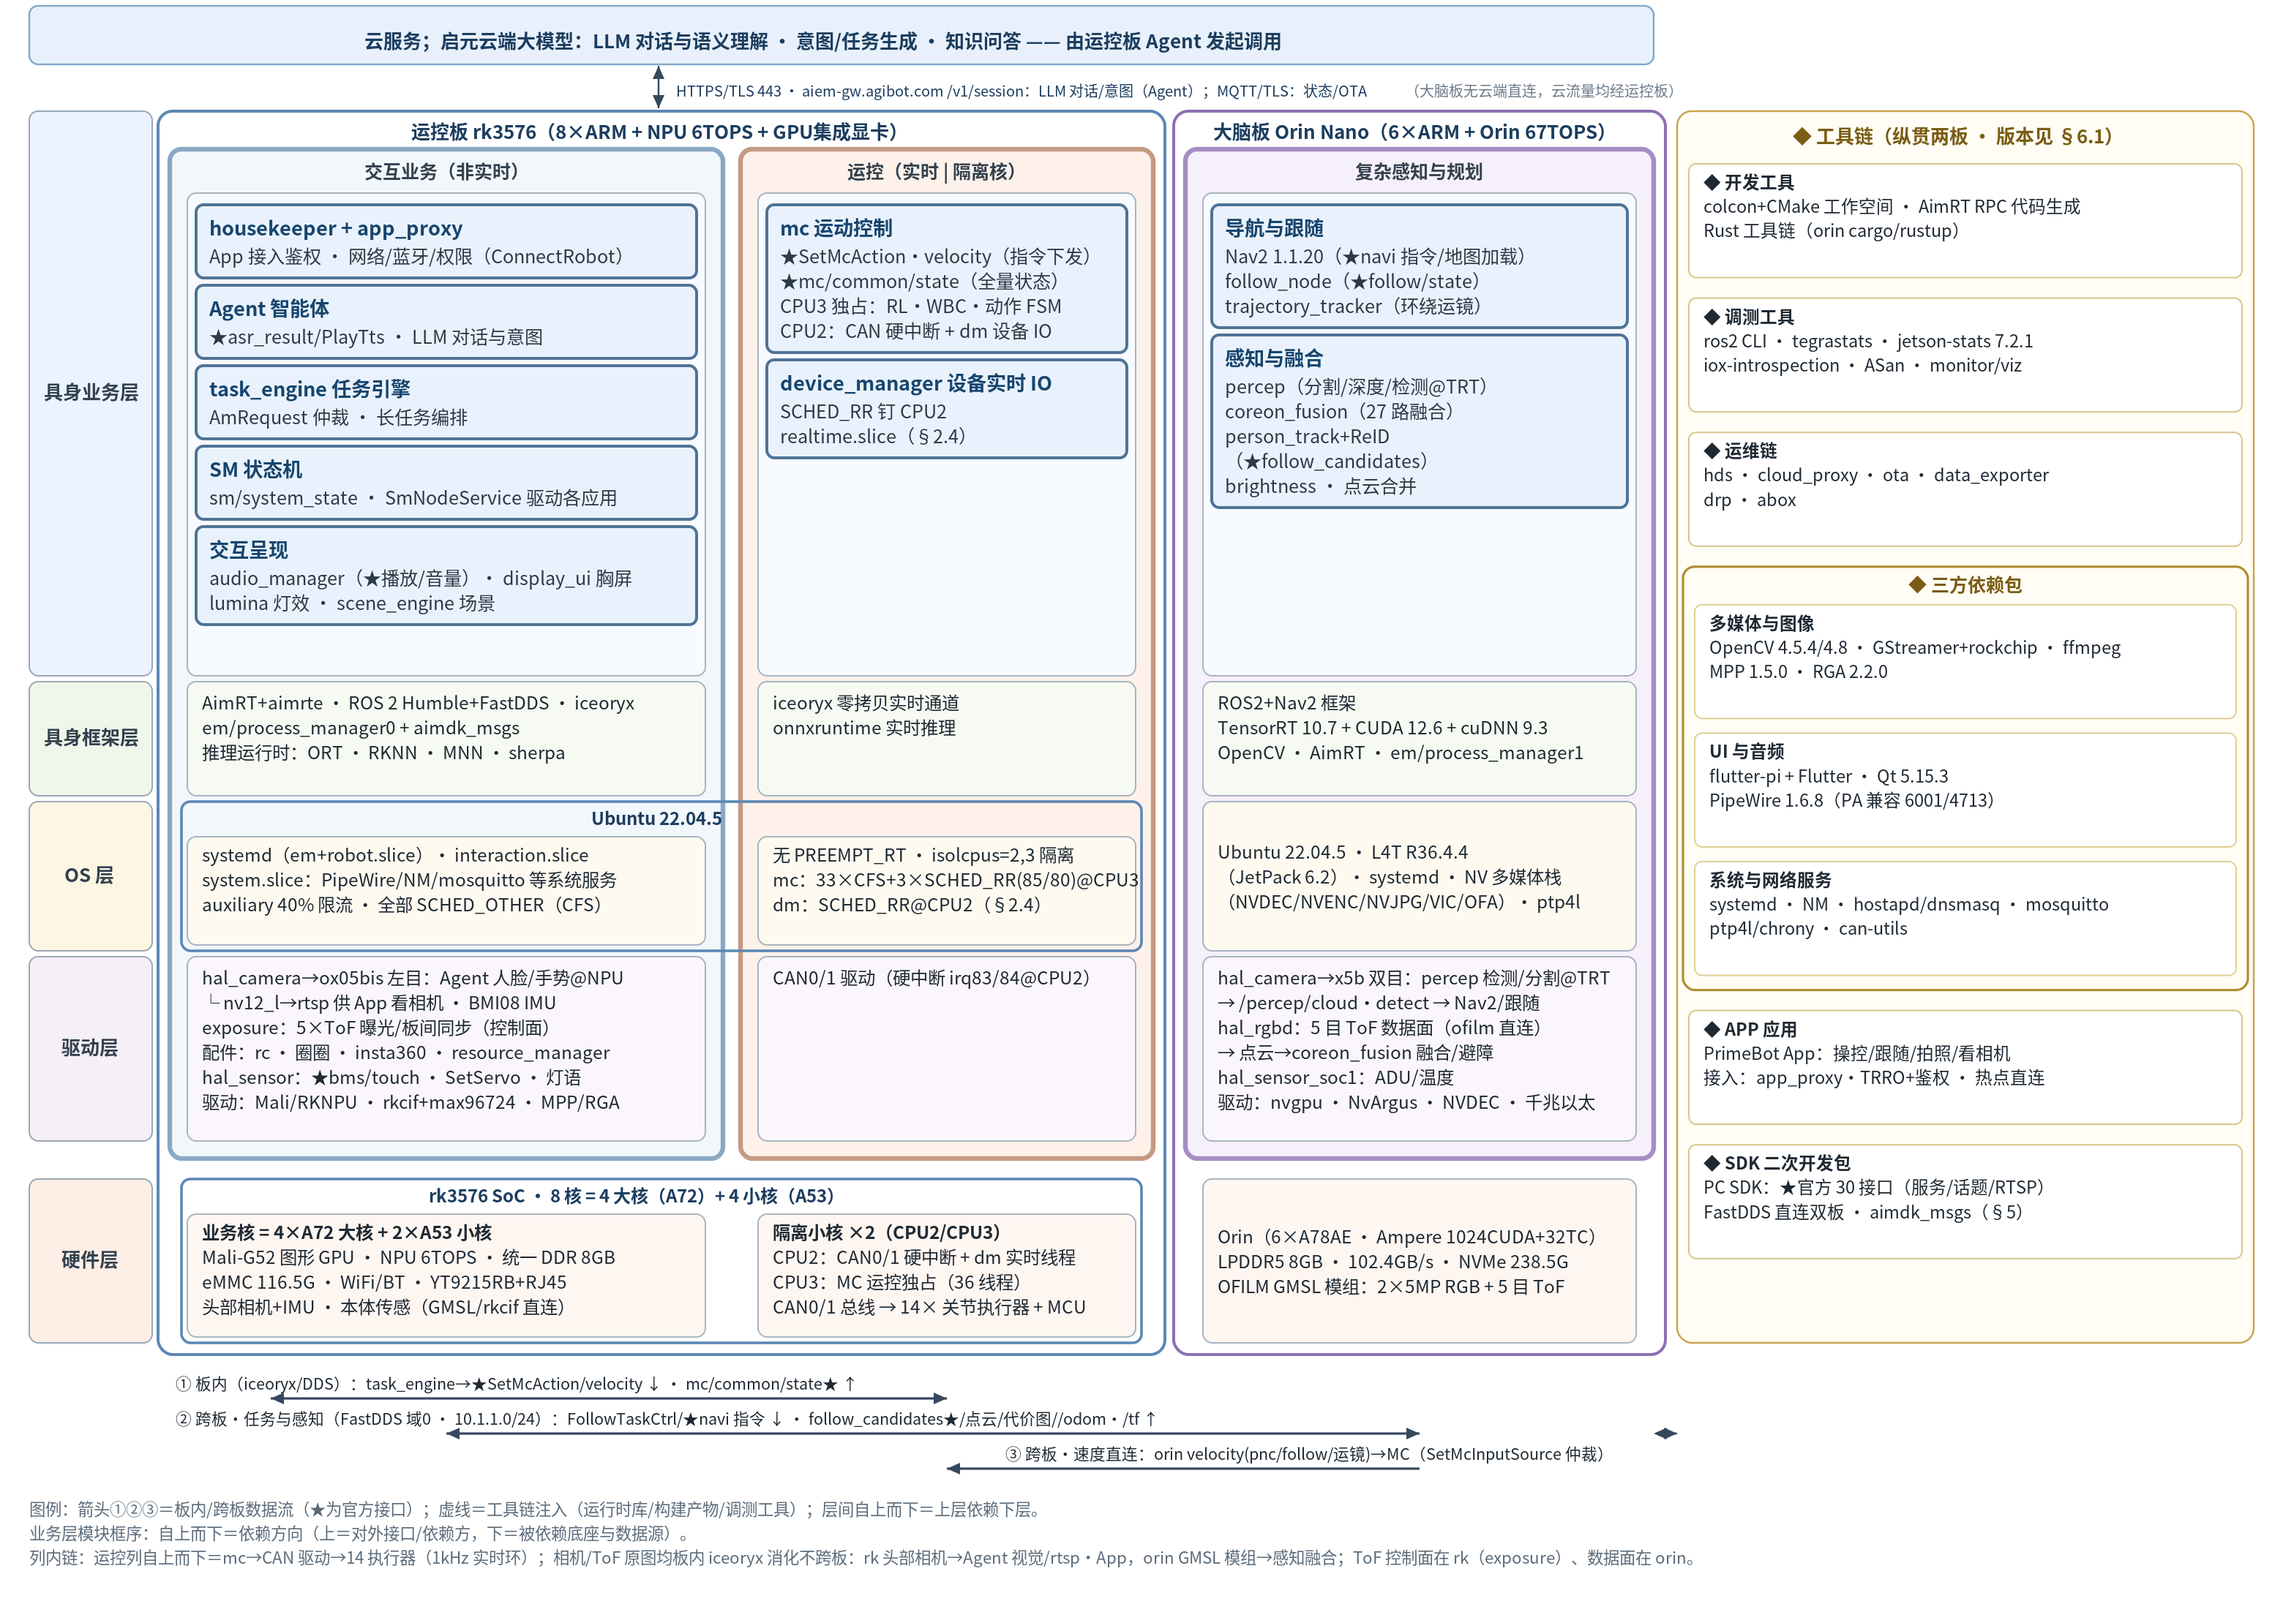
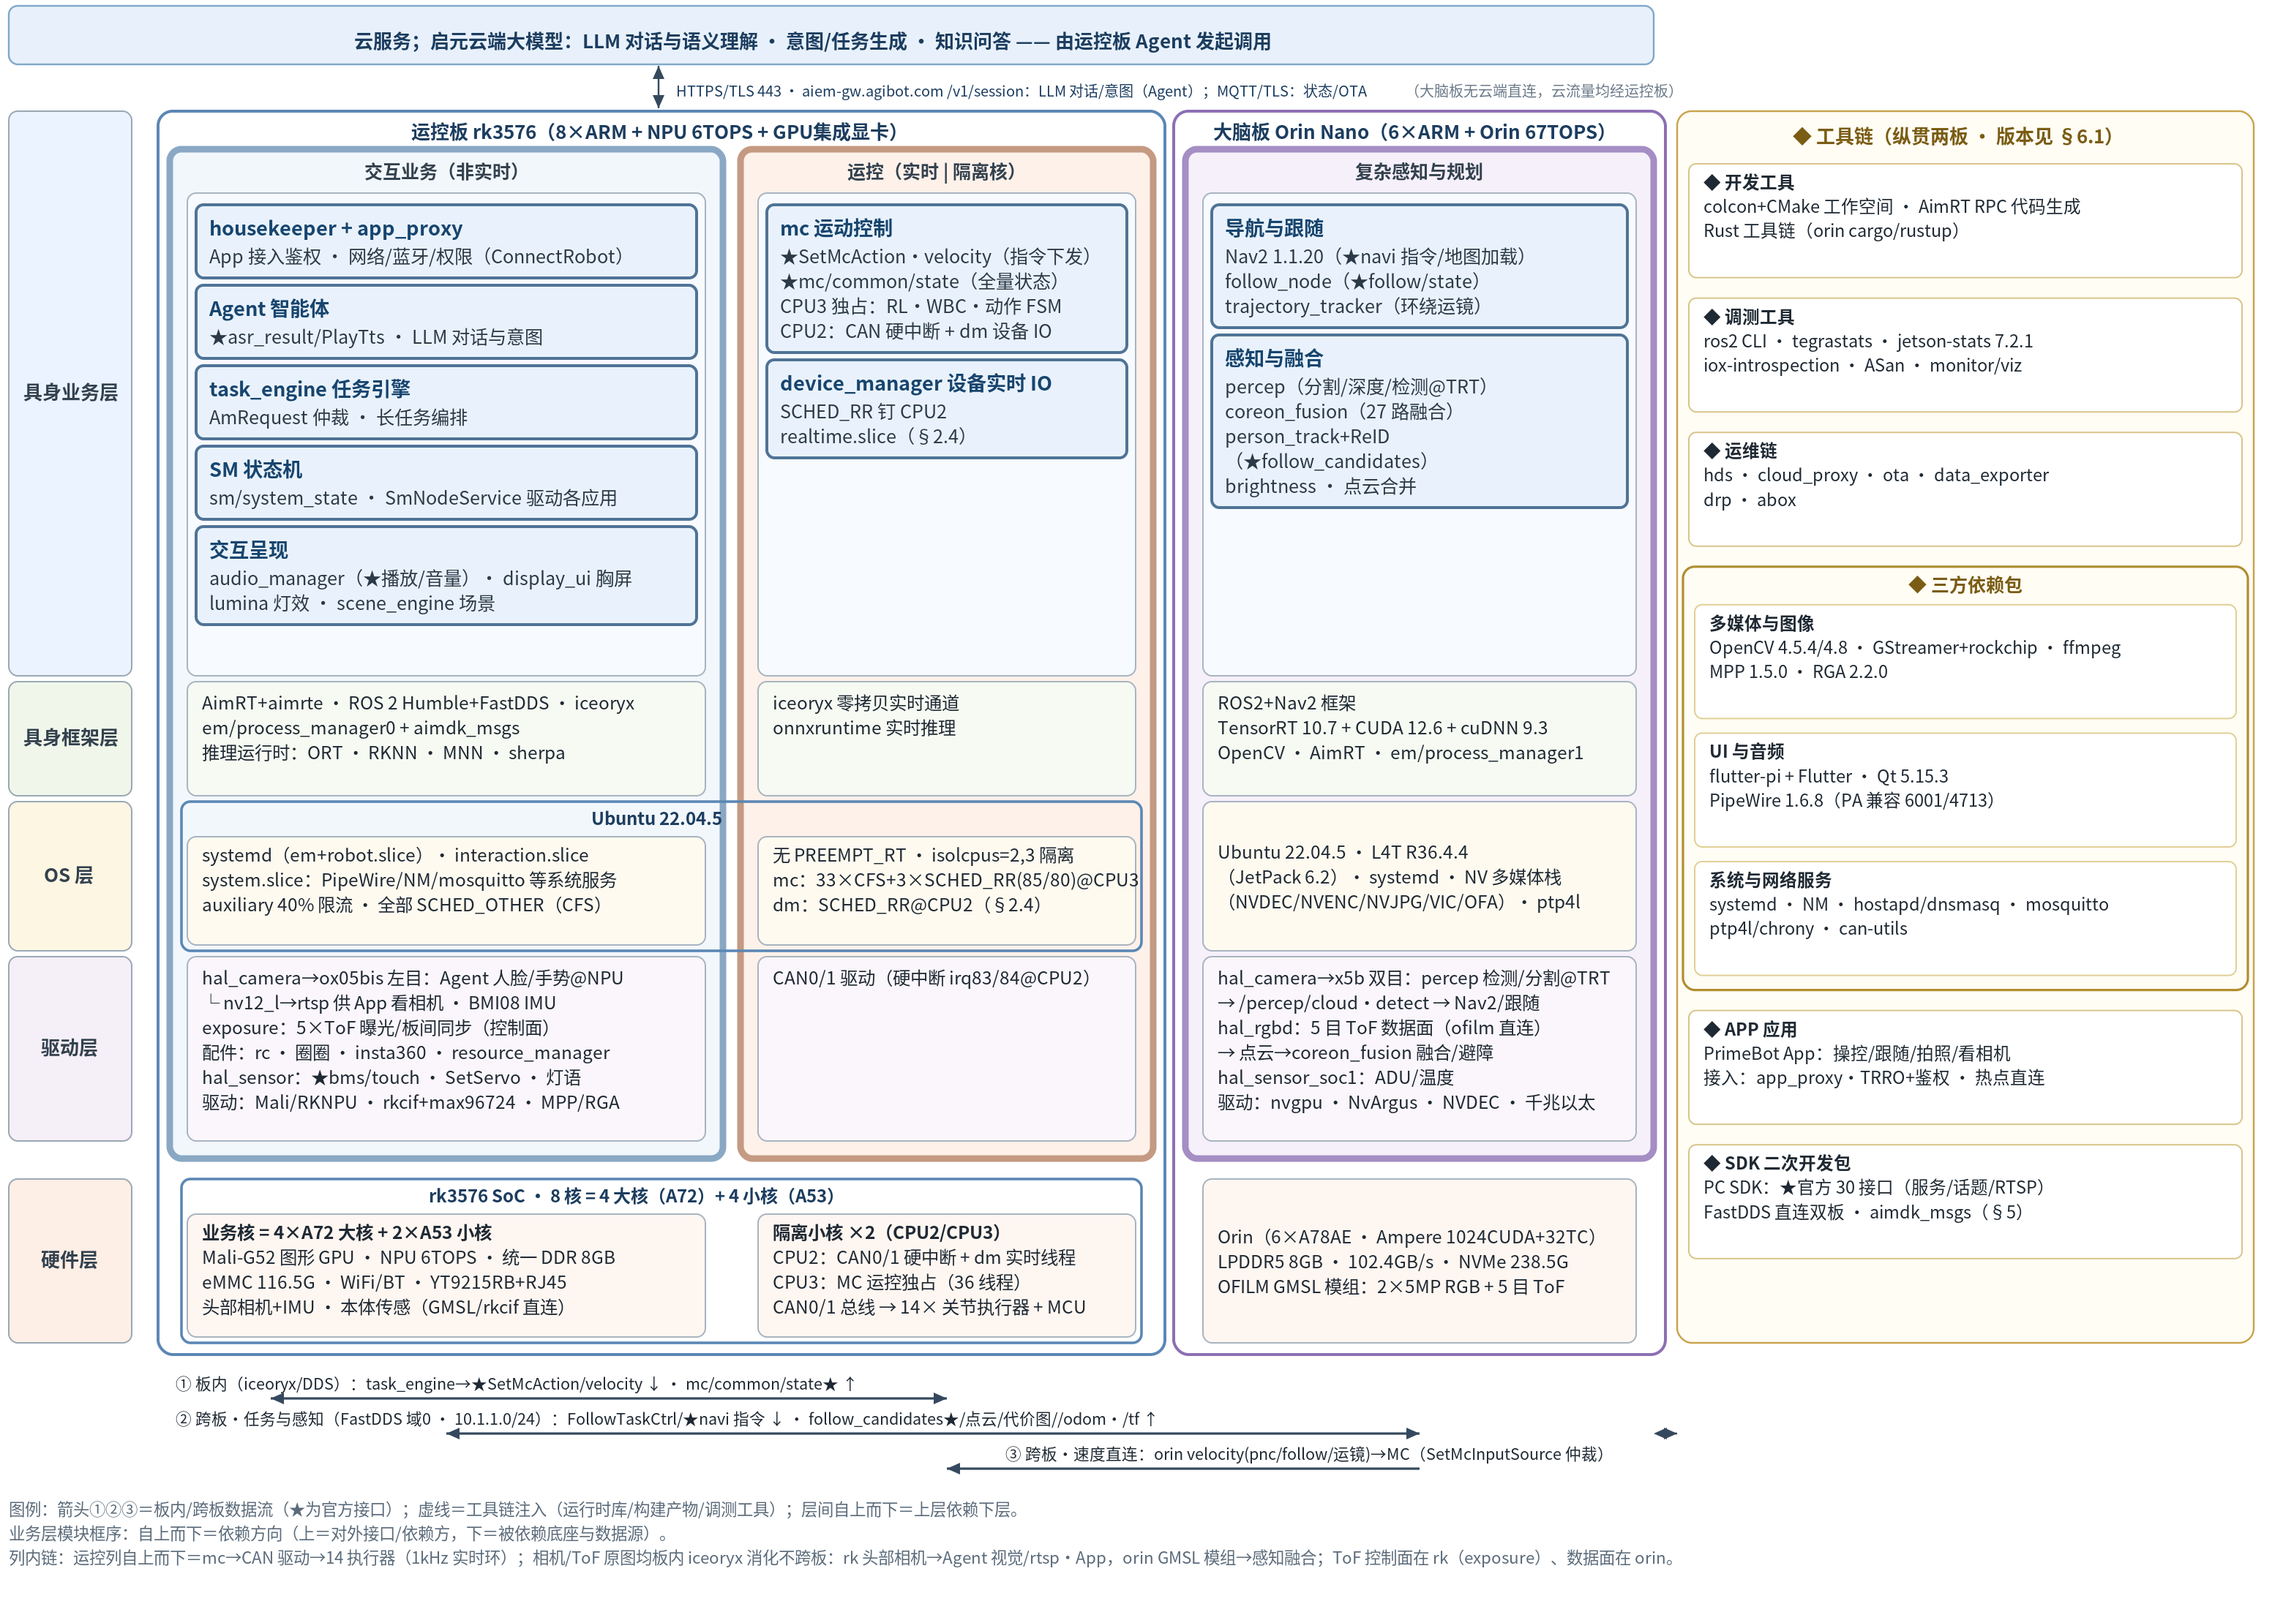
图 7-1：五个层标签左移贴边（x6）+ 云带左沿对齐 + 部分框边框再加粗（4.5）

diff --git a/figures/gen_fig_7_1.py b/figures/gen_fig_7_1.py
@@ -50,7 +50,7 @@ def arrow(x1, y1, x2, y2, color='#35495e', both=True, dash='', sw=1.6):
 S = []   # 图体元素（svg 开闭标签在末尾按实际画布高拼装）
 
 # ---------- 版面常量 ----------
-LBL_X, LBL_W = 20, 84
+LBL_X, LBL_W = 6, 84
 C1_X, C1_W = 116, 378                 # rk·交互业务
 C2_X, C2_W = 506, 282                 # rk·运控
 C3_X, C3_W = 810, 320                 # orin（右移 14：与运控板框留 6px 间隙）
@@ -172,7 +172,7 @@ PARTS = [(C1_X, C1_W, '交互业务（非实时）', '#f2f7fc', '#8aa8c4'),
          (C2_X, C2_W, '运控（实时 | 隔离核）', '#fdf1ea', '#c49a82'),
          (C3_X, C3_W, '复杂感知与规划', '#f6f0fb', '#a48ec4')]
 for px, pw, pname, pfill, pstroke in PARTS:
-    S.append(box(px, PART_Y, pw, PART_BOT - PART_Y, pfill, pstroke, 3.2, rx=8))   # 部分框边框加粗（再加强）
+    S.append(box(px, PART_Y, pw, PART_BOT - PART_Y, pfill, pstroke, 4.5, rx=8))   # 部分框边框加粗（第三档）
     t, _ = text_block(0, PART_Y + 20, [(pname, True)], fs=12.5, color='#33414e',
                       center=px + pw // 2, maxw=pw - 12)   # 部分名在部分框顶部条带
     S.append(t)

diff --git a/t1-pro-orin-rk-analysis.md b/t1-pro-orin-rk-analysis.md
@@ -1487,7 +1487,7 @@ sequenceDiagram
 
 **排版口径**：**纵向（列）**按部署域切分为三部分——运控板 rk 的「交互业务（非实时）」与「运控执行（实时）」两列 + 大脑板 orin 的「复杂感知与规划」一列；**横向（行）**自上而下为**具身业务层 → 具身框架层 → OS 层 → 驱动层 → 硬件层**五层（即自底向上：硬件→驱动→OS→框架→业务）；**最右侧为纵贯全部层级的「工具链」大框**。因 mermaid 自动布局无法锁定矩阵式行列顺序，本图由脚本生成 **SVG 矢量图**（`figures/gen_fig_7_1.py` → `figures/fig-7-1-layered-arch.svg`，仓库同时提供 PNG 版 `fig-7-1-layered-arch.png`），行列位置精确可控，并直接画出板内/跨板数据流与工具链注入连线。按 4+1 视图口径，**本图即逻辑视图**：以具身业务层的功能模块（职责+接口★）为主体，其下框架/OS/驱动层与硬件层作为物理承载一并框出（嵌套结构：**板框 ⊃ 部分框 ⊃ 业务/框架/OS/驱动四层；硬件层在板框内、部分框外**）；模块间接口协作另见 §7.4，场景串联见 §6.2。
 
-![图 7-1 逻辑视图（双板纵切 × 五层横切 × 工具链纵贯）](figures/fig-7-1-layered-arch.png?v=20261031s)
+![图 7-1 逻辑视图（双板纵切 × 五层横切 × 工具链纵贯）](figures/fig-7-1-layered-arch.png?v=20261031t)
 
 > **图 7-1 读法**：**板框**（运控板 rk3576 / 大脑板 Orin Nano）⊃ **部分框**（交互业务（非实时）/ 运控（实时｜隔离核）/ 复杂感知与规划，各含具身业务→框架→OS→驱动四层，上层依赖下层）（正文为缩略显示，点击图片可放大至原生分辨率）；**硬件层**在板框内、部分框正下方（**rk 侧两格外包统一框：rk3576 8 核＝4×A72 大核＋4×A53 小核**，内格细分业务核〔4×A72＋2×A53〕与 2×隔离小核 CPU2/CPU3）；**OS 层 rk 两列同属一个 Ubuntu 22.04.5 实例**（外包统一框；两格内容侧重调度——业务格：interaction/system/auxiliary slice + CFS，运控格：isolcpus=2,3 + SCHED_RR 钉核）；**具身业务层内每模块独立成框，框序自上而下=依赖方向（上=对外接口/依赖方，下=被依赖底座与数据源）**；最右列为**工具链**纵贯（**开发工具 → 调测工具 → 运维链 → 三方依赖包**〔多媒体与图像 · UI 与音频 · 系统与网络服务〕**→ APP 应用 → SDK 二次开发包**；**传感直连内容已并入各板驱动层格**——rk 格以 hal_sensor/hal_camera(ox05bis)/exposure 为前，orin 格以 hal_rgbd/hal_camera(x5b) 为前）；**①②③通信线统一画在图底部**。
 > **连线与交互**（图上带编号的箭头）：**① 板内**（rk 业务⇄运控，iceoryx/DDS）——task_engine→★SetMcAction/velocity ↓，mc→★mc/common/state ↑；**② 跨板·任务与感知**（rk 业务⇄orin，内部以太网 10.1.1.0/24 · FastDDS 域 0）——FollowTaskCtrl/★navi 指令 ↓，★follow_candidates/点云/代价图、/odom·/tf ↑（只走结果级数据，相机原图板内消化）；**③ 跨板·速度直连**（orin→MC）——nav2/follow/运镜发布 velocity(pnc/follow)，MC 按 SetMcInputSource 仲裁；**外部接入**——App→app_proxy(TRRO/鉴权)、**云 LLM⇄Agent（HTTPS/TLS 443 · aiem-gw.agibot.com /v1/session：对话/意图，顶部「启元云端大模型」带即此链路，仅连运控板；2026-10-31 实测大脑板零云进程/零外部连接）**、云→cloud_proxy(MQTT/TLS：状态/OTA)、遥控器→rc(蓝牙)、圈圈→connx(BLE+UWB)、Insta360→insta360(WiFi)，全部终结于 rk；PC ★接口面 FastDDS 直连双板；**虚线**=工具链注入。模块级全量接口见 §7.4，连接视角见 §7.2。
